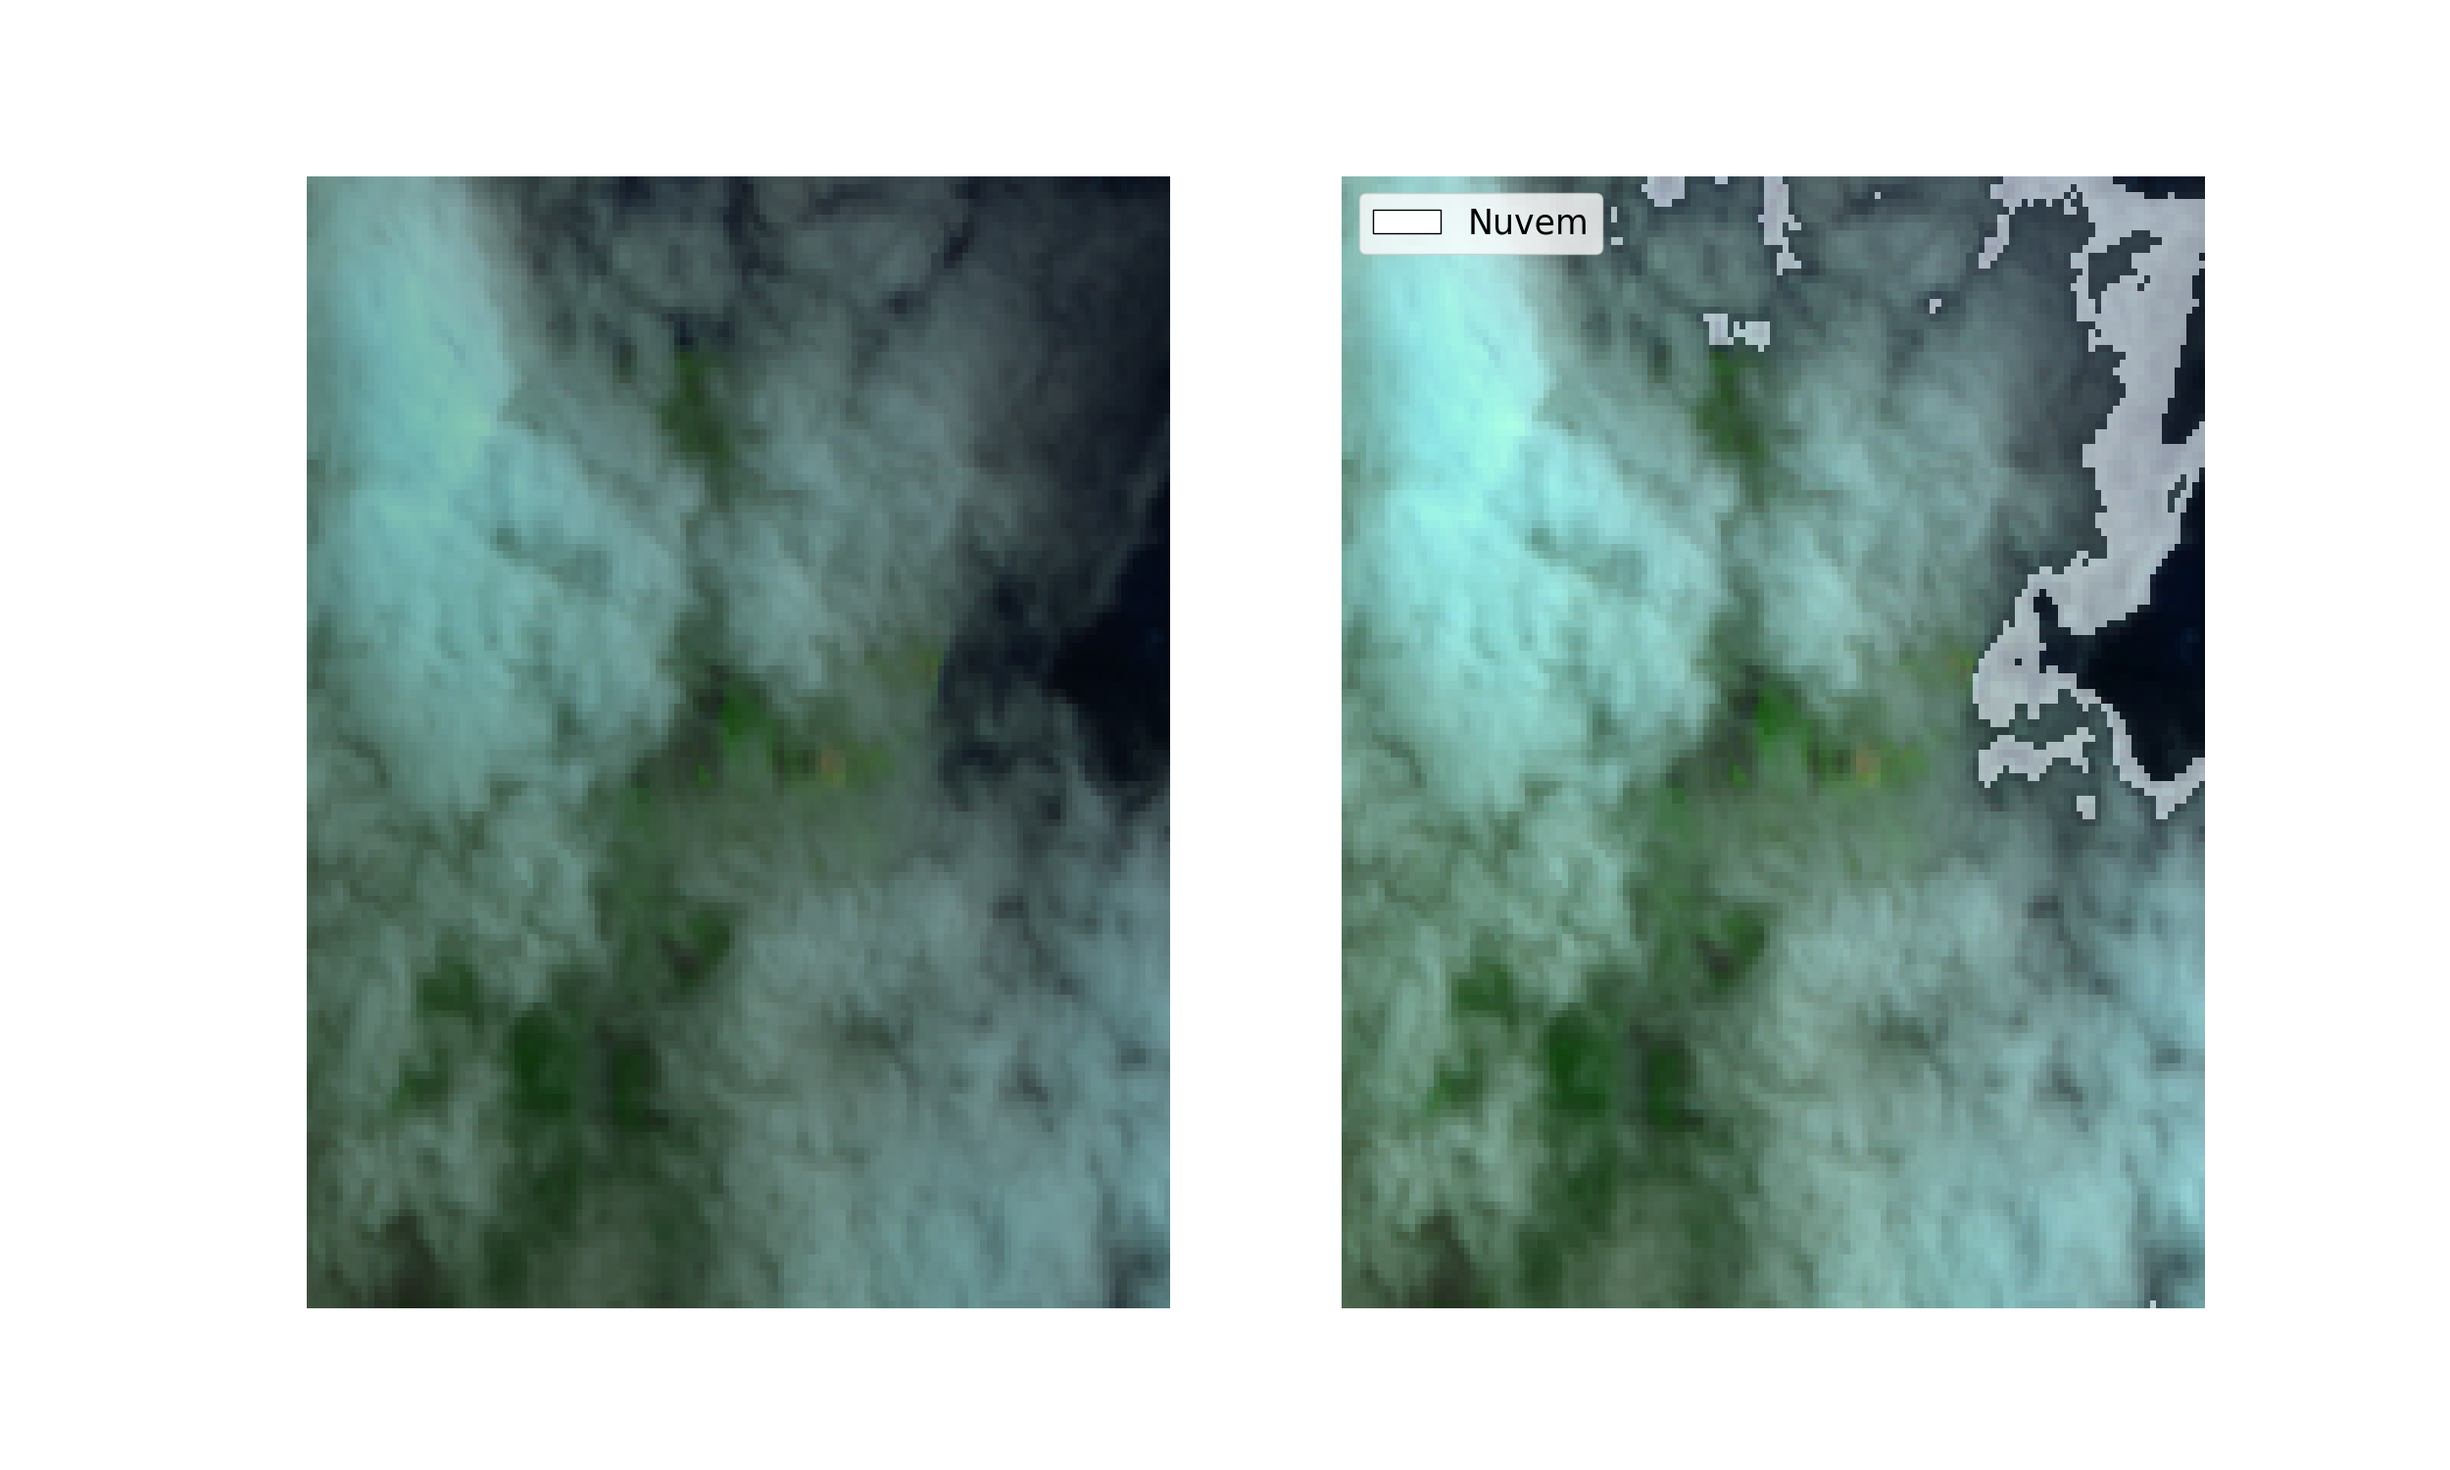
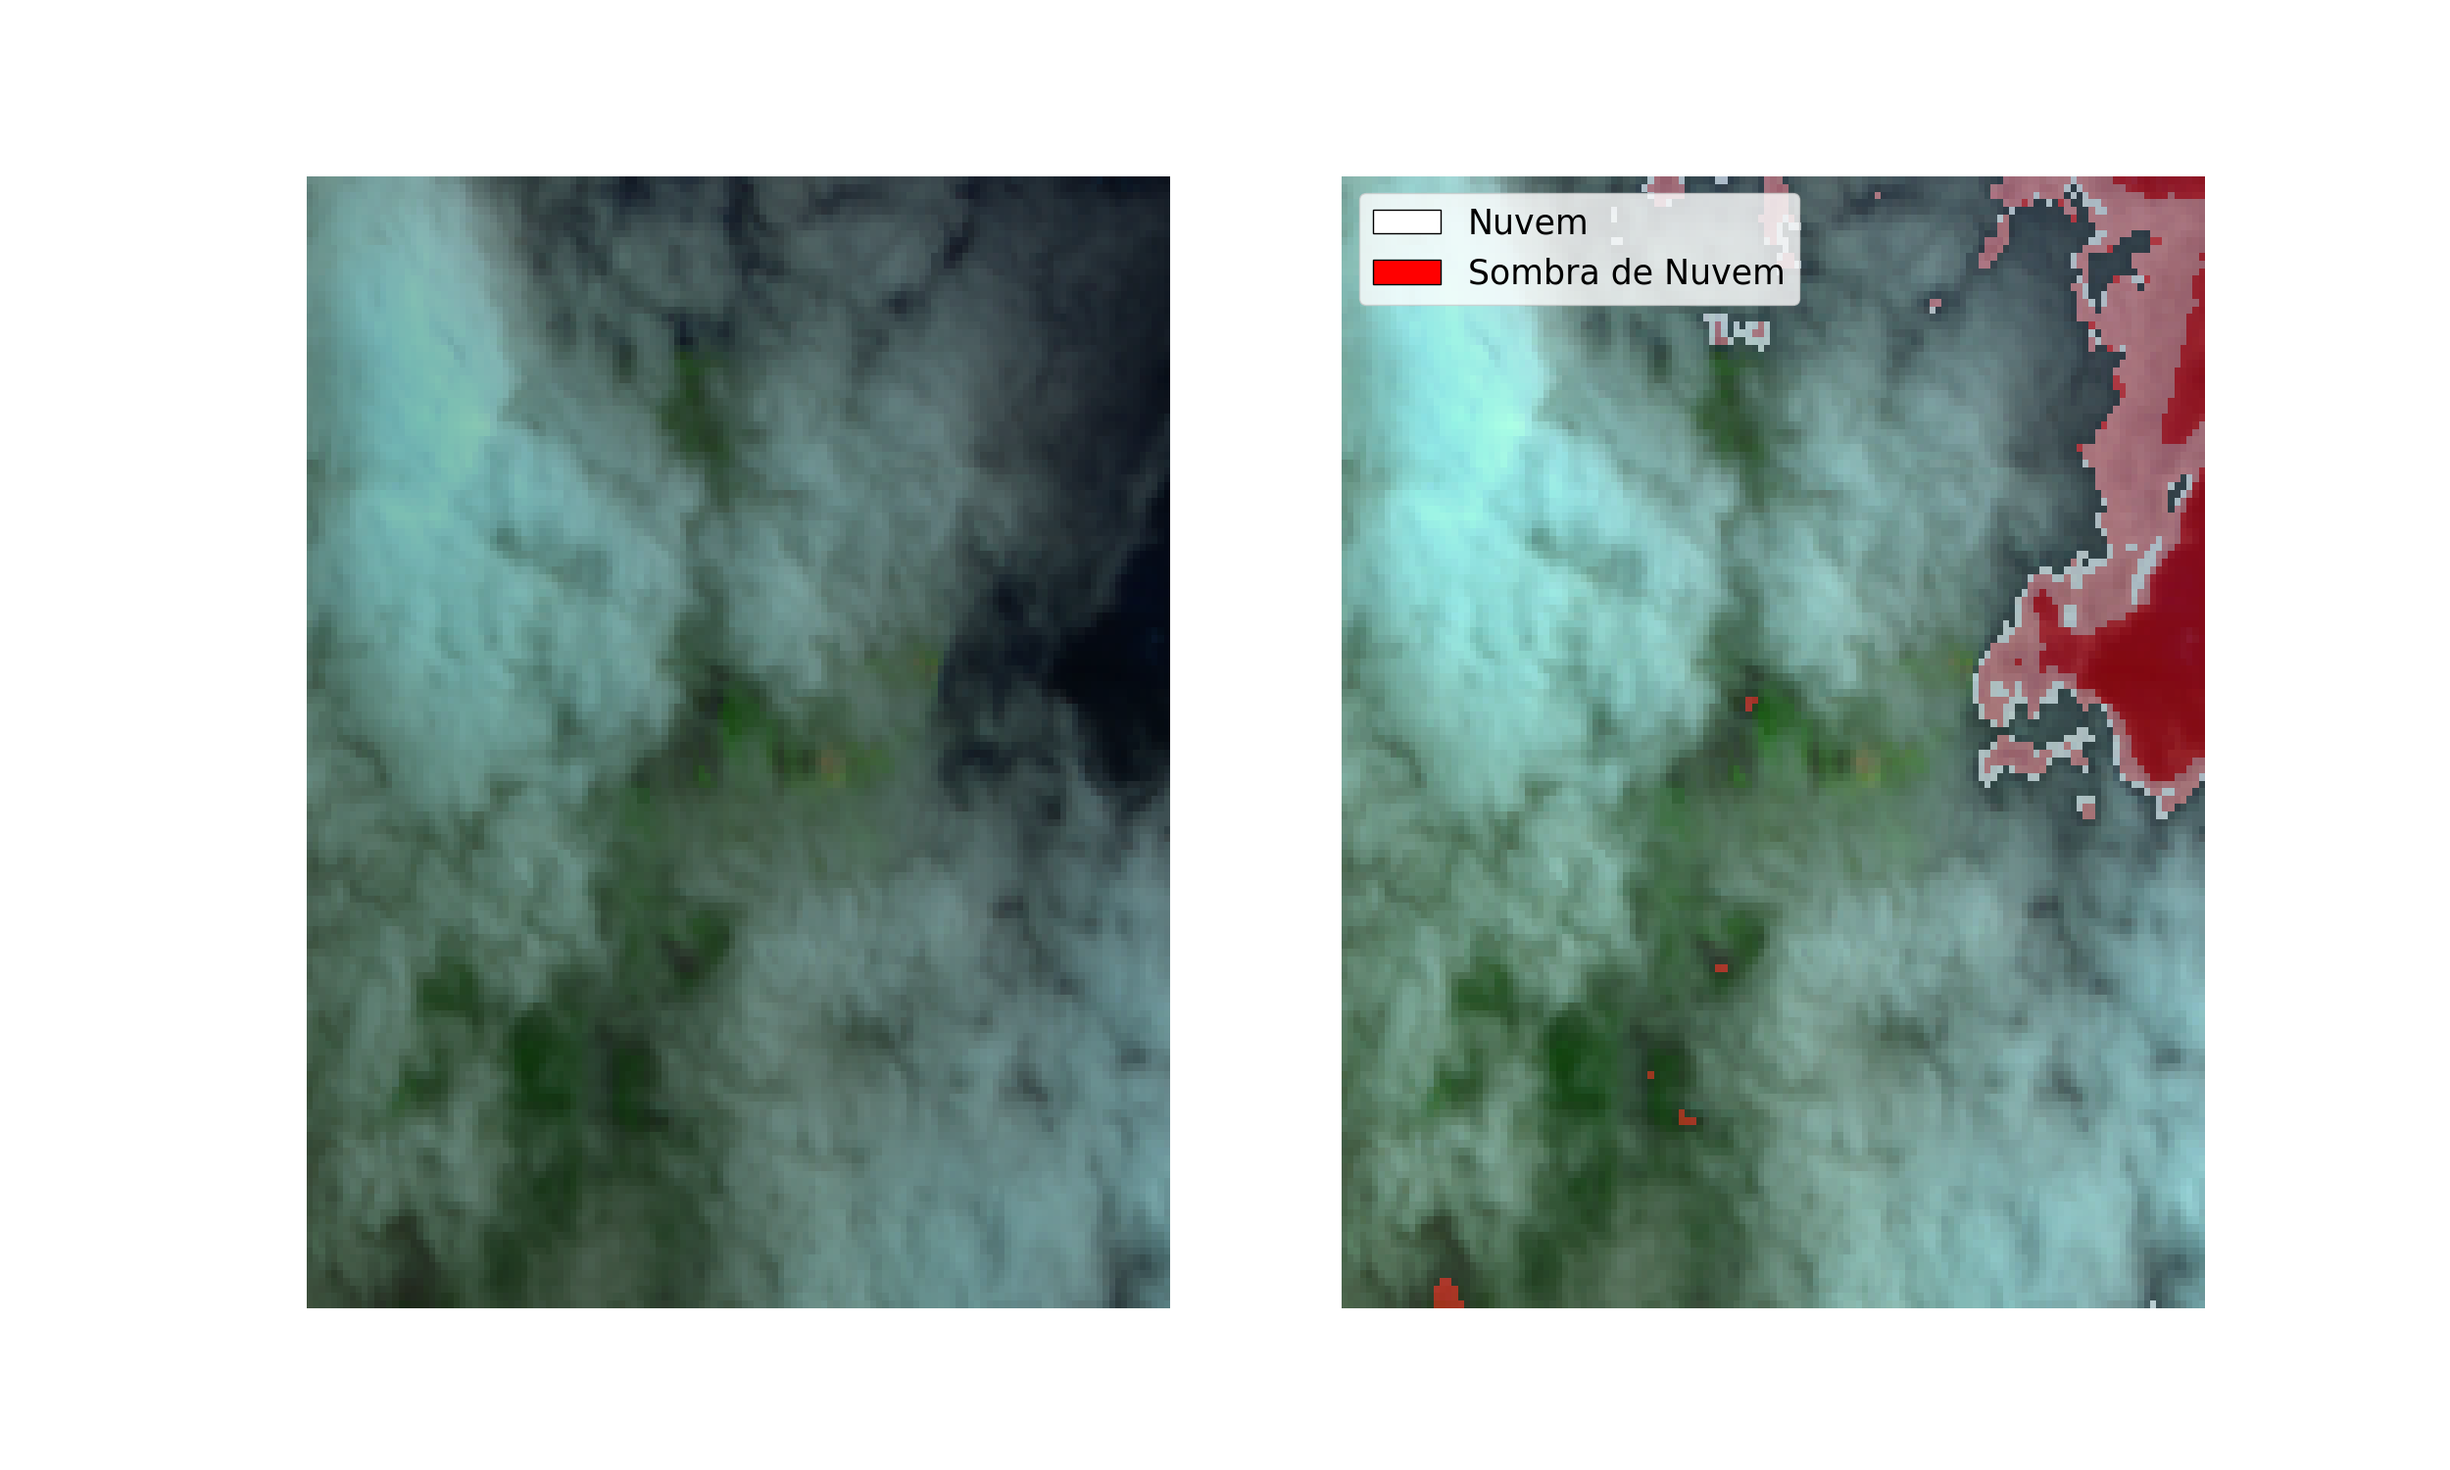
Potencial Cloud Shadow Layer

Changed region(s): [[0.8112, 0.1227, 0.9048, 0.552], [0.5304, 0.1227, 0.7488, 0.2147], [0.5616, 0.8587, 0.5928, 0.8893]]

diff --git a/main.py b/main.py
@@ -1,7 +1,7 @@
 import rasterio
 import numpy as np
 import matplotlib.pyplot as plt
-from PIL import Image
+from PIL import Image, ImageDraw
 from typing import List
 from segmentation_mask_overlay import overlay_masks
 from matplotlib.patches import Patch
@@ -20,8 +20,8 @@ class Fmask():
         with rasterio.open(tif_file) as src:
             bands = src.read()
 
-        for b in bands:
-            print(b)
+        # for b in bands:
+        #     print(b)
 
         # print("Bands: ", len(bands))
         return bands
@@ -357,52 +357,72 @@ class Fmask():
         pcl = pcl_1 | pcl_2 | pcl_3 | pcl_4
         return pcl
 
-    def detect_clouds(self, bands: np.ndarray) -> np.ndarray:
-        """_summary_
+    def detect_clouds(self, b1: np.ndarray,                     
+                      b3: np.ndarray,
+                      b4: np.ndarray,
+                      b5: np.ndarray,
+                      b7: np.ndarray,
+                      bt: np.ndarray,
+                      ndvi: np.ndarray,
+                      ndsi: np.ndarray,
+                      modified_ndvi: np.ndarray,
+                      modified_ndsi: np.ndarray,
+                      whiteness: np.ndarray,
+                      water: np.ndarray) -> np.ndarray:
 
-        Args:
-            bands (np.ndarray): _description_
-            tif_file (str): _description_
 
-        Returns:
-            np.ndarray: _description_
-        """
-
-        B1 = bands[0]
-        B2 = bands[1]
-        B3 = bands[2]
-        B4 = bands[3]
-        B5 = bands[4]
-        B6 = bands[5]
-        B7 = bands[6]
-
-        ndvi, modified_ndvi = self.calculate_ndvi(B4, B3)
-        ndsi, modified_ndsi = self.calculate_ndsi(B2, B5)
-        bt = B6 - 273.15
-        print(bt, B6, B5)
-        whiteness = self.whiteness_test(B3, B2, B1)
-        water = self.water_test(ndvi, B7)
-
-        # Pass One
-        pcp = self.pass_one(b1=B1, b3=B3, b4=B4, b5=B5, b7=B7, bt=bt,
+        # Pass One to get potencial cloud pixels
+        pcp = self.pass_one(b1=b1, b3=b3, b4=b4,
+                            b5=b5, b7=b7, bt=bt,
                             ndvi=ndvi,
                             ndsi=ndsi,
                             whiteness=whiteness)
         
-        # Pass Two
-        pcl = self.pass_two(b5=B5,
-                      b7=B7,
+        # Pass Two returns potencial cloud layer
+        pcl = self.pass_two(b5=b5,
+                      b7=b7,
                       bt=bt,
                       pcp=pcp,
                       modified_ndvi=modified_ndvi,
                       modified_ndsi=modified_ndsi,
                       water_test=water,
                       whiteness=whiteness)
-
+        
         return pcl
 
-    def detect_shadows(self, bands, cloud_mask):
-       pass
+
+    def flood_fill_transformation(self, band: np.ndarray):        
+
+        # Normalizar a banda para o intervalo [0, 255]
+        band4_normalized = ((band - np.min(band)) / (np.max(band) - np.min(band)) * 255).astype(np.uint8)
+        normalized_image = Image.fromarray(band4_normalized)
+
+        # Inverter a imagem para que o flood-fill funcione corretamente (transformação morfológica)
+        inverted_image = Image.fromarray(255 - band4_normalized)
+
+        # Definir um ponto de partida fora da área de interesse (por exemplo, canto da imagem)
+        seed_point = (0, 0)
+
+        # Aplicar o flood-fill usando ImageDraw.floodfill
+        ImageDraw.floodfill(inverted_image, xy=seed_point, value=255, thresh=10)
+
+        # Inverter a imagem de volta ao original
+        filled_image = Image.fromarray(255 - np.array(inverted_image))
+
+        # Converter o resultado de volta para um array NumPy
+        result = np.maximum(band4_normalized, np.array(filled_image))
+
+        # Converter o resultado de volta para uma imagem PIL
+        result_image = Image.fromarray(result.astype(np.uint8))
+
+        return result_image
+
+    def detect_shadows(self, b4: np.ndarray):
+       flood_fill_b4 = self.flood_fill_transformation(b4)
+       # PCSL(Potential Cloud Shadow Layer) test       
+    #    return flood_fill_b4 - b4 > 0.02
+    #    print(b4.max())
+       return (flood_fill_b4 - b4 < 50)
 
     def save_tif(self, band: np.ndarray, tif_file: str, output_file: str) -> None:
         """_summary_
@@ -419,7 +439,7 @@ class Fmask():
             with rasterio.open(output_file, 'w', **profile) as dst:
                 dst.write(band, 1)
 
-    def save_plot(self, mask: np.ndarray, color_composite: np.ndarray, save_dir: str, name: str) -> None:
+    def save_plot(self, masks: list, color_composite: np.ndarray, save_dir: str, name: str) -> None:
         """ Save a plot contains mask with mask
 
         Args:
@@ -430,13 +450,15 @@ class Fmask():
         """
 
         fig = plt.figure(figsize=(25, 15))
+
+        fig = plt.figure(figsize=(25, 15))
         plt.subplot(1, 2, 1)
         plt.imshow(color_composite, interpolation='nearest', aspect='auto')
         plt.axis(False)
 
-        colors = ['white']
-        classes = ['Nuvem']
-        masked_image = overlay_masks(color_composite, mask,['Nuvem'], colors=colors)
+        colors = ['white', 'red']
+        classes = ['Nuvem', "Sombra de Nuvem"]
+        masked_image = overlay_masks(color_composite,  np.stack(masks, -1), classes, colors=colors)
 
         plt.subplot(1, 2, 2)
         plt.imshow(color_composite, interpolation='nearest', aspect='auto')
@@ -462,17 +484,46 @@ class Fmask():
             np.ndarray: Mask containing cloud segmentation(value 1) 
                         and cloud shadow (value 2) 
         """
-
+        # Open .tif
         bands = self.read_landsat_bands(tif_file)
-        cloud_mask = self.detect_clouds(bands)
-        # shadow_mask = self.detect_shadows(bands, cloud_mask)
 
-        fmask = np.zeros_like(cloud_mask, dtype=np.uint8)
-        # fmask = np.ones_like(cloud_mask, dtype=np.uint8)
-        fmask[cloud_mask] = 1
-        # fmask[shadow_mask] = 2
+        # Extract each band
+        B1 = bands[0]
+        B2 = bands[1]
+        B3 = bands[2]
+        B4 = bands[3]
+        B5 = bands[4]
+        B6 = bands[5]
+        B7 = bands[6]
 
-        return np.transpose(np.array([bands[4], bands[3], bands[2]]), [1, 2, 0]), fmask
+        # Calculation the necessary indices
+        ndvi, modified_ndvi = self.calculate_ndvi(B4, B3)
+        ndsi, modified_ndsi = self.calculate_ndsi(B2, B5)
+        bt = B6 - 273.15
+        whiteness = self.whiteness_test(B3, B2, B1)
+        water = self.water_test(ndvi, B7)
+
+        # Get cloud mask
+        cloud_mask = self.detect_clouds(b1=B1, b3=B3, 
+                                        b4=B4, b5=B5, 
+                                        b7=B7, bt=bt,
+                                        ndvi=ndvi,
+                                        ndsi=ndsi,
+                                        modified_ndvi=modified_ndvi,
+                                        modified_ndsi=modified_ndsi,
+                                        whiteness=whiteness,
+                                        water=water)
+        
+
+        # Get shadow cloud mask
+        shadow_mask = self.detect_shadows(B4)
+
+        # cloud_mask = np.zeros_like(cloud_mask, dtype=np.uint8)
+        # shadow_mask = np.zeros_like(cloud_mask, dtype=np.uint8)
+        # cloud_mask[cloud_mask] = 1
+        # shadow_mask[shadow_mask] = 1
+
+        return np.transpose(np.array([bands[4], bands[3], bands[2]]), [1, 2, 0]), cloud_mask, shadow_mask
 
 
 if __name__ == "__main__":
@@ -483,6 +534,7 @@ if __name__ == "__main__":
 
     inputs = [f"{root}/{img}" for img in os.listdir(root)]
     # inputs = ['./2004/seixas_20041124.tif']
+    # inputs = ['./2004/seixas_20040905.tif']
     save_dir = "./results/"
 
     # inputs = ['./seixas_20041124.tif']
@@ -492,7 +544,7 @@ if __name__ == "__main__":
 
     for inp in inputs:
         file_name = f'{inp.split("/")[-1].split(".")[0]}_result.png'
-        color_composite, result = fmask.create_fmask(inp)
-        fmask.save_tif(result, inputs[0], './test.tif')
-        fmask.save_plot(result, color_composite, save_dir, name=file_name)
+        color_composite, cloud_mask, shadow_mask = fmask.create_fmask(inp)
+        # fmask.save_tif(result, inputs[0], './test.tif')
+        fmask.save_plot([cloud_mask, shadow_mask], color_composite, save_dir, name=file_name)
         # fmask.save(result, inp, file_name)
